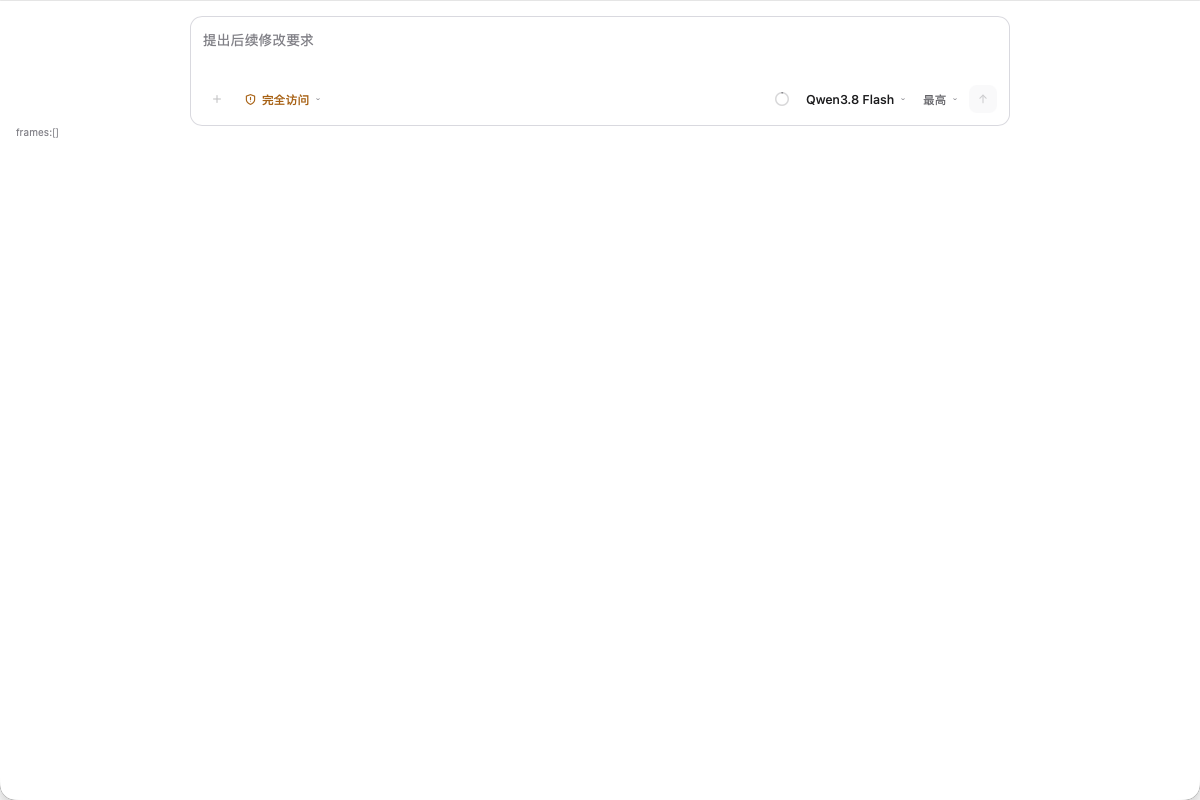
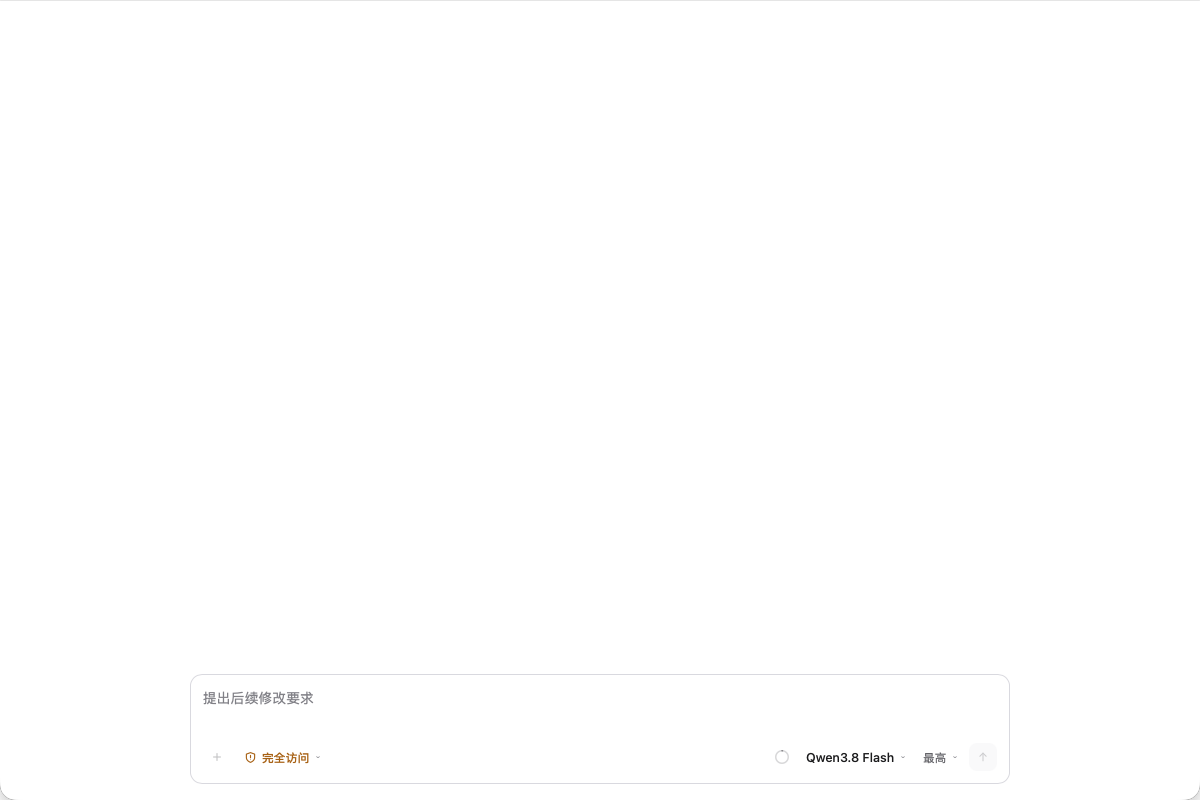
fix(manox): the model menu survives a failed load, and the evidence reads like a sheet
The fixture now writes captured frames to storage (no debug line on screen) and bottom-aligns the card so menus open upward like the real sheet. The model trigger's accessible name is the display name, a failed first model load shows its reason instead of a permanent spinner, the transport seams restore the native implementations, and the composer screenshots were regenerated.

diff --git a/app/fixtures/manox-composer.tsx b/app/fixtures/manox-composer.tsx
@@ -1,4 +1,4 @@
-import { mount, signal, Text, View } from "nsh";
+import { mount, Storage, View } from "nsh";
 import { channels, connectionStatus, setManoxFrameSink } from "../modules/manox/ahp";
 import { ManoxComposer } from "../modules/manox/composer";
 import { setPiModelsTransport } from "../domains/pimodels";
@@ -18,13 +18,12 @@ import type { ChatState } from "../../contracts/ahp/channels-chat/state";
  */
 
 /** The dispatches the composer made, parsed back from the wire frames. */
-export const frames: Array<Record<string, any>> = [];
-/** The same capture as one screen line, so the headless test can read it. */
-const framesLog = signal("frames:[]");
+const frames: Array<Record<string, any>> = [];
 
 setManoxFrameSink((frame) => {
   frames.push(JSON.parse(frame));
-  framesLog.set(`frames:${JSON.stringify(frames)}`);
+  // The test runs in another engine: storage is the bridge it can read.
+  void Storage.setItem("manox-frames", JSON.stringify(frames));
 });
 
 // The model catalogue without the host: one provider, two models, both
@@ -73,9 +72,11 @@ const ROOT: RootState = {
 // The session channel: the config schema the host would advertise (the
 // writable enums) and the current values the fold carries.
 const SESSION: SessionState = {
+  resource: "ahp-session:/thread",
   provider: "bailian-anthropic",
   title: "composer fixture",
   status: 1,
+  modifiedAt: "2026-11-16T00:00:00.000Z",
   lifecycle: "ready",
   activeClients: [],
   chats: [],
@@ -135,10 +136,7 @@ channels.set({
 connectionStatus.set("ready");
 
 mount(() => (
-  <View class="flex-1 bg-background" style={{ padding: 16 }}>
+  <View class="flex-1 bg-background" style={{ padding: 16, justifyContent: "flex-end" }}>
     <ManoxComposer threadId="thread" chatId="chat" />
-    <Text testID="manox-fixture-frames" class="text-[10px] text-faint">
-      {framesLog()}
-    </Text>
   </View>
 ));

diff --git a/app/manox-composer.ui.test.tsx b/app/manox-composer.ui.test.tsx
@@ -9,14 +9,14 @@ async function shot(app: { screenshot: (path?: string | null) => Promise<Uint8Ar
   }
 }
 
-/** The frames the fixture captured, read off the screen line it keeps. */
-function capturedFrames(app: { texts(): string[] }): Array<Record<string, any>> {
-  const line = app.texts().find((text) => text.startsWith("frames:"));
-  return line ? JSON.parse(line.slice("frames:".length)) : [];
+/** The frames the fixture captured, read back through the app's storage. */
+function capturedFrames(app: { storage(): Record<string, string> }): Array<Record<string, any>> {
+  const raw = app.storage()["manox-frames"];
+  return raw ? JSON.parse(raw) : [];
 }
 
 /** The dispatchAction frames of one action type, in dispatch order. */
-function framesOfType(app: { texts(): string[] }, type: string): Array<Record<string, any>> {
+function framesOfType(app: { storage(): Record<string, string> }, type: string): Array<Record<string, any>> {
   return capturedFrames(app).filter(
     (frame) => frame.method === "dispatchAction" && frame.params?.action?.type === type,
   );
@@ -44,9 +44,9 @@ test("the idle card shows every control with its name and a disabled +", async (
   // The trigger names the current access mode in the shell's words.
   expect(app.texts()).toContain("完全访问");
   expect(app.count("label:权限模式：完全访问")).toBe(1);
-  // The model trigger carries the display name; its label is the full ref.
+  // The model trigger carries the display name; its label is the same name.
   expect(app.texts()).toContain("Qwen3.8 Flash");
-  expect(app.count("label:bailian-anthropic/qwen3.8-flash")).toBe(1);
+  expect(app.count("label:Qwen3.8 Flash")).toBe(1);
   // The effort picker localizes the level.
   expect(app.texts()).toContain("最高");
   expect(app.count("label:推理强度：最高")).toBe(1);

diff --git a/app/modules/manox/composer-controls.tsx b/app/modules/manox/composer-controls.tsx
@@ -415,7 +415,9 @@ export function ManoxModel(props: { threadId: string }) {
     const row = currentRow();
     return row ? modelLabel(row) : current() || t(K.session.model);
   };
-  const loaded = () => piProviders() != null;
+  // A failed first load leaves the providers null but the error set; the
+  // menu must show the reason rather than a spinner that never ends.
+  const loaded = () => piProviders() !== null || piModelsError() !== null;
   const groups = (): Array<{ provider: PiProvider; models: PiModelInfo[] }> => {
     const out: Array<{ provider: PiProvider; models: PiModelInfo[] }> = [];
     const byId = new Map<string, PiModelInfo[]>();
@@ -449,9 +451,9 @@ export function ManoxModel(props: { threadId: string }) {
         <View
           role="button"
           testID="manox-model"
-          accessibilityLabel={current() || t(K.session.model)}
+          accessibilityLabel={display()}
           accessibilityState={{ expanded: open(), hasPopup: true }}
-          tooltip={current() || t(K.session.model)}
+          tooltip={current() || display()}
           class={`${footerTrigger(open())} min-w-0 gap-1 px-1.5`}
           style={{ ...motionStyle("fast") }}
         >

diff --git a/app/modules/manox/stores.ts b/app/modules/manox/stores.ts
@@ -127,11 +127,6 @@ export function sessionConfigValue(threadId: string, key: string): unknown {
   return key in config.values ? config.values[key] : config.schema.properties[key]?.default;
 }
 
-/** The session's current config values (as the fold carries them). */
-export function sessionConfigValues(threadId: string): Record<string, unknown> {
-  return sessionOf(threadId)?.config?.values ?? {};
-}
-
 /** The thread's raw config model ref (the kernel's `{provider}-{wire}/{model}`). */
 export function manoxModelRefOf(threadId: string): string {
   const value = sessionConfigValue(threadId, "model");
